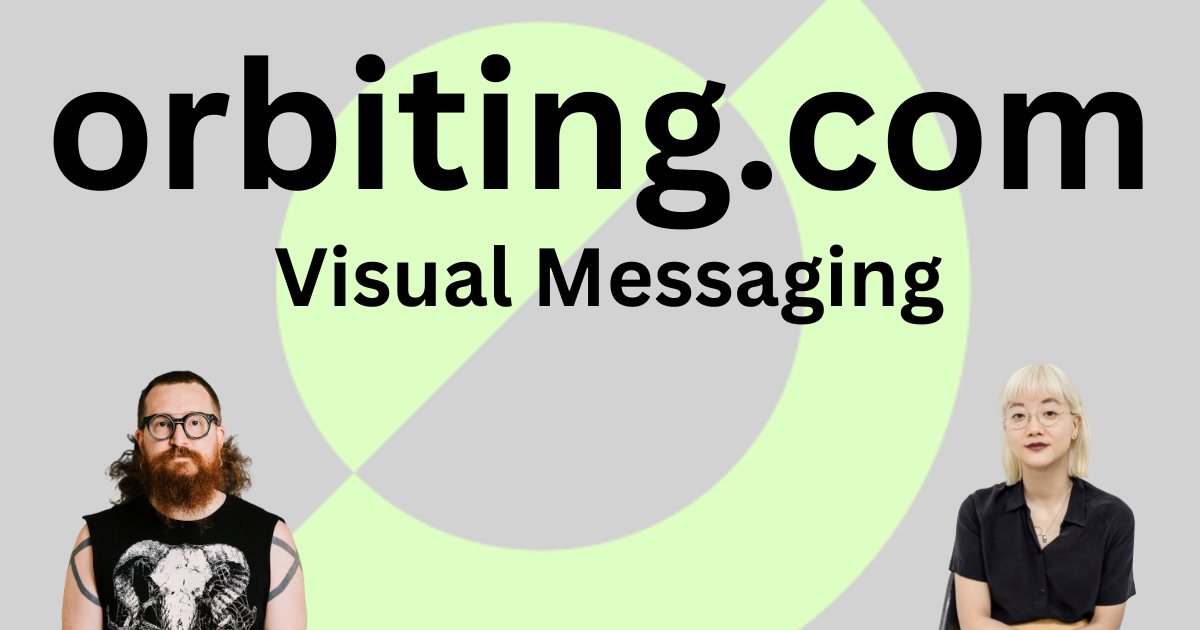
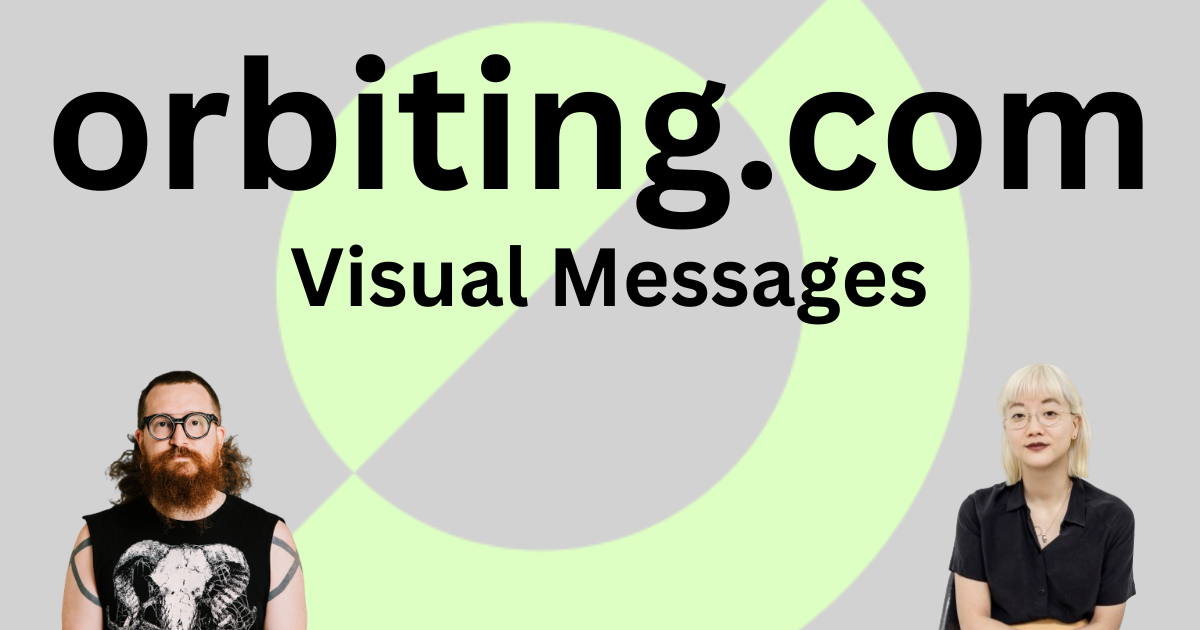
🚀 Blasting off into the world of web dev! 🌎 - Updated the OG image to make it even more mind-blowingly awesome 🤯 - Fixed a tiny little oopsie in the </head> tag 🙈 My bad, y'all! - Made sure this bad boy is ready to rock on any device, from a Nokia brick to a Tesla screen 📱💻🚗
So there you have it, folks! Just a couple small tweaks to make sure this website is looking sexy AF and ready to take over the interwebs 😎 Now let's ship this shit and go grab a beer! 🍻

Changed region(s): [[0.2158, 0.3921, 0.8017, 0.5127]]

diff --git a/layouts/_default/baseof.html b/layouts/_default/baseof.html
@@ -53,7 +53,7 @@
   <meta name="date" content="{{ now.Format "2006-01-02" }}">
   {{ partial "manifest.html" . }}
   {{ template "_internal/opengraph.html" . }}
-</head>
+</html>head>
 
 <body>
   <main>
